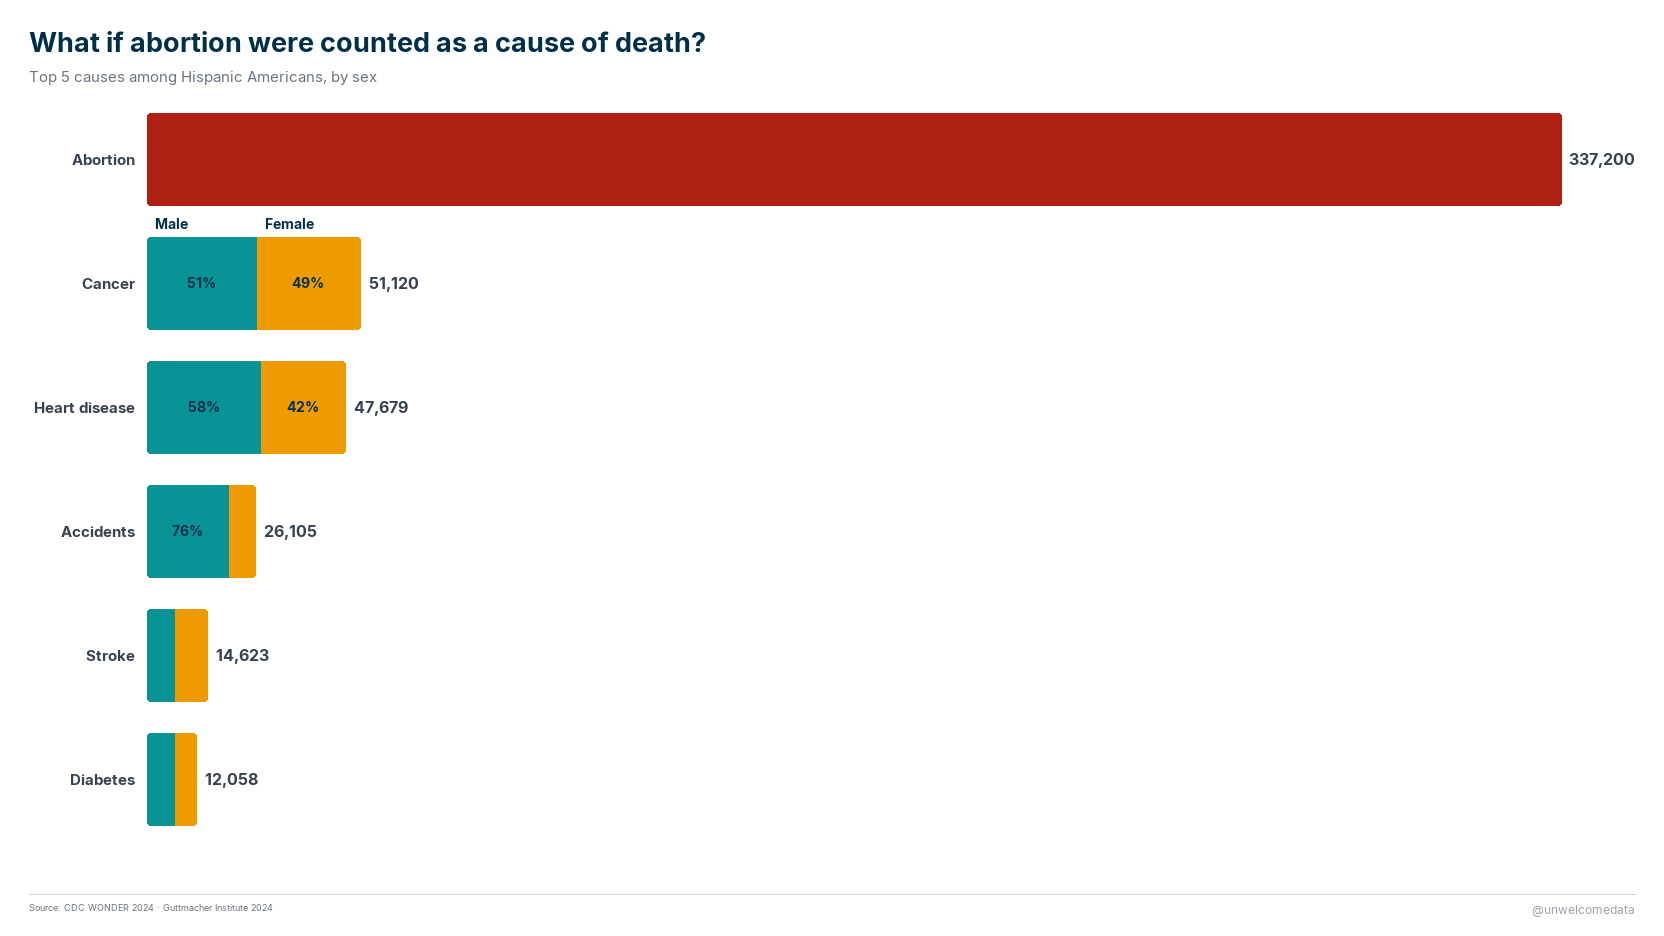
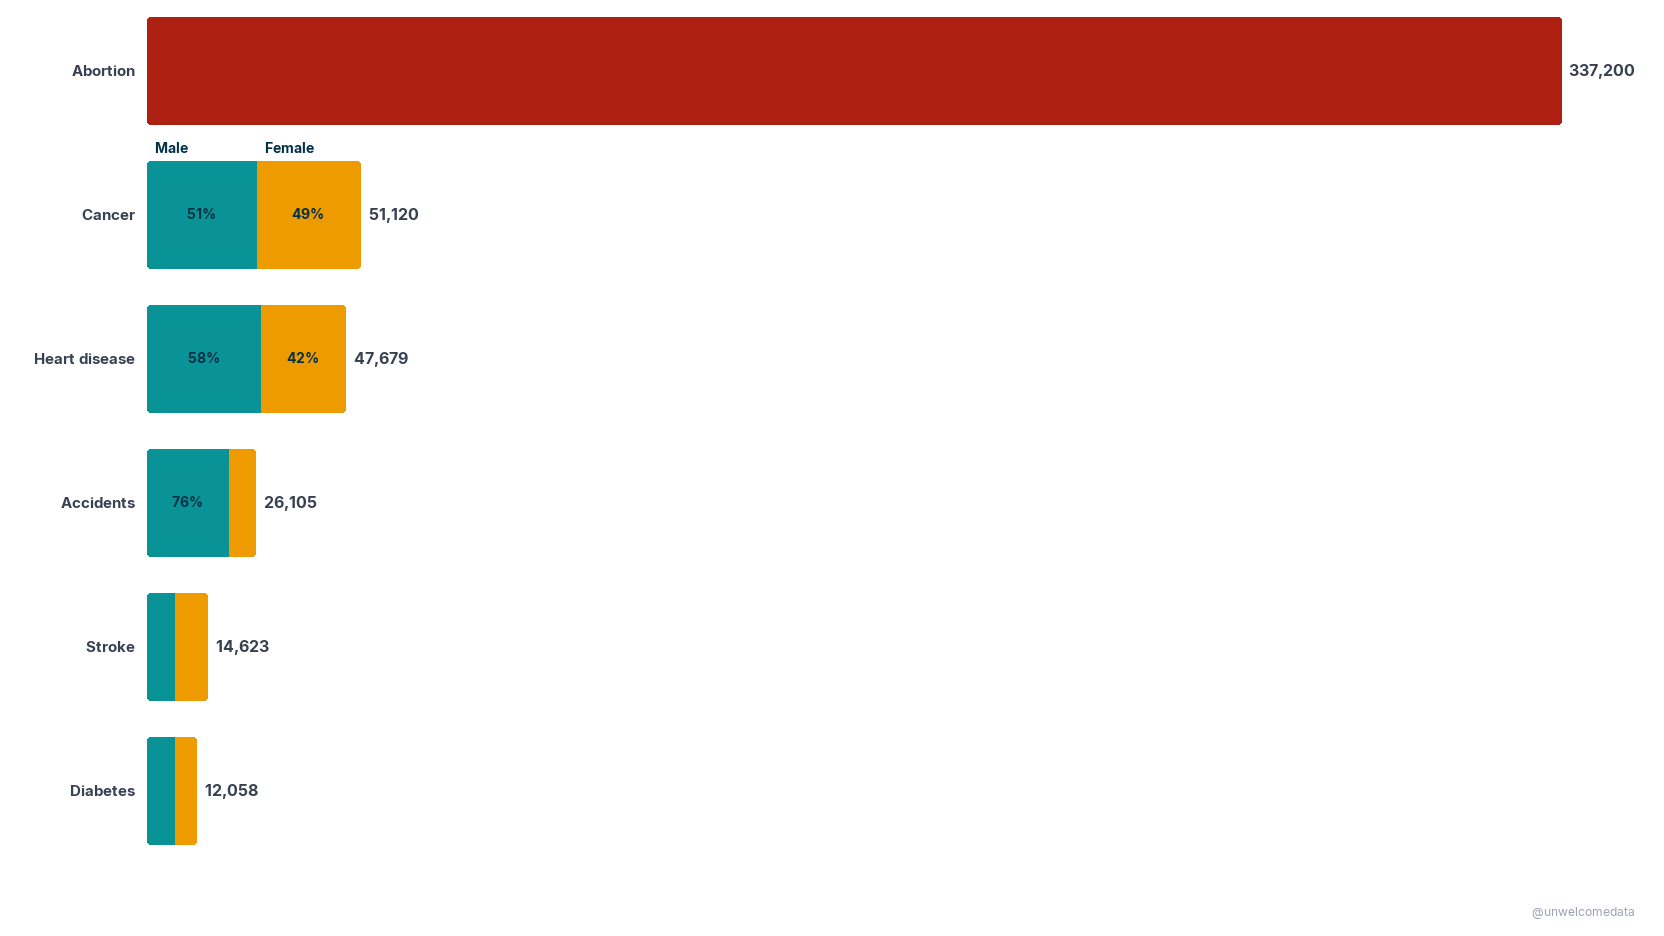
docs: web-optimized charts + wider column + click-to-zoom
- docs/ charts are now the web renders (no title/subtitle/source chrome, larger
  bars, watermark only) so they read on the page without duplicating the heading
  text the README already provides.
- assets/css/style.scss: widen the Cayman content column (64rem->80rem, trim side
  padding) at desktop so charts display closer to full size; images centered and
  clickable.
- README: each chart is now a click-to-zoom link to its full-res PNG.

diff --git a/assets/css/style.scss b/assets/css/style.scss
@@ -1,0 +1,36 @@
+---
+---
+
+@import "{{ site.theme }}";
+
+/* ------------------------------------------------------------------ *
+ * @unwelcomedata — shared Cayman overrides
+ *
+ * Standard tweak across every project page. Two goals:
+ *   1. Give charts more room to breathe. Stock Cayman caps the content
+ *      column at 64rem with 6rem side padding, leaving only ~832px of
+ *      usable width on desktop — our data charts get squeezed. We widen
+ *      the column and trim the side padding at the large breakpoint so
+ *      charts display closer to their rendered size and read without
+ *      zooming. Mobile/tablet breakpoints are left as the theme ships them.
+ *   2. Let a chart image act as a click-to-open link to the full-res PNG
+ *      without the default link underline/box getting in the way.
+ * ------------------------------------------------------------------ */
+
+@media screen and (min-width: 64em) {
+  .main-content {
+    max-width: 80rem;      /* was 64rem (~1024px) -> ~1280px */
+    padding: 2rem 4rem;    /* was 2rem 6rem -> reclaim 2rem each side */
+  }
+}
+
+/* Charts fill the content width and open full-res on click (see README:
+   each chart image is wrapped in a link to its own PNG). */
+.main-content img {
+  max-width: 100%;
+  height: auto;
+}
+.main-content a > img {
+  display: block;
+  margin: 0 auto;
+}

diff --git a/README.md b/README.md
@@ -18,30 +18,32 @@ source are documented openly below and in [SOURCES.md](SOURCES.md).
 
 ## The charts
 
+_Click any chart to open it at full resolution._
+
 **What if abortion were counted as a cause of death?** The national top causes,
 with the abortion total inserted and the list re-ranked.
 
-![What if abortion were counted as a cause of death — national](docs/03_national.png)
+[![What if abortion were counted as a cause of death — national](docs/03_national.png)](docs/03_national.png)
 
 **Top 10 causes of death: Female vs Male.** The recorded leading causes, by sex,
 for context on the population the abortion figure sits against.
 
-![Top 10 causes of death, female vs male](docs/01_female_vs_male.png)
+[![Top 10 causes of death, female vs male](docs/01_female_vs_male.png)](docs/01_female_vs_male.png)
 
 **Top 10 causes of death: White vs Black.** Recorded leading causes by race.
 
-![Top 10 causes of death, White vs Black](docs/02_white_vs_black.png)
+[![Top 10 causes of death, White vs Black](docs/02_white_vs_black.png)](docs/02_white_vs_black.png)
 
 **The same comparison, within groups.** The "what if abortion were counted"
 ranking computed among White Americans and among Black Americans.
 
-![Top 5 causes with abortion — White Americans](docs/03b_white.png)
+[![Top 5 causes with abortion — White Americans](docs/03b_white.png)](docs/03b_white.png)
 
-![Top 5 causes with abortion — Black Americans](docs/03c_black.png)
+[![Top 5 causes with abortion — Black Americans](docs/03c_black.png)](docs/03c_black.png)
 
 **Per-capita: White vs Black.** Abortion as a rate per 100,000, on a shared scale.
 
-![Abortion as a cause of death, per capita — White vs Black](docs/04_percapita_white_vs_black.png)
+[![Abortion as a cause of death, per capita — White vs Black](docs/04_percapita_white_vs_black.png)](docs/04_percapita_white_vs_black.png)
 
 > **Additional charts are available in the repo.** The [`docs/`](docs/) folder
 > also includes White-vs-Hispanic, Black-vs-Hispanic, and three-way
